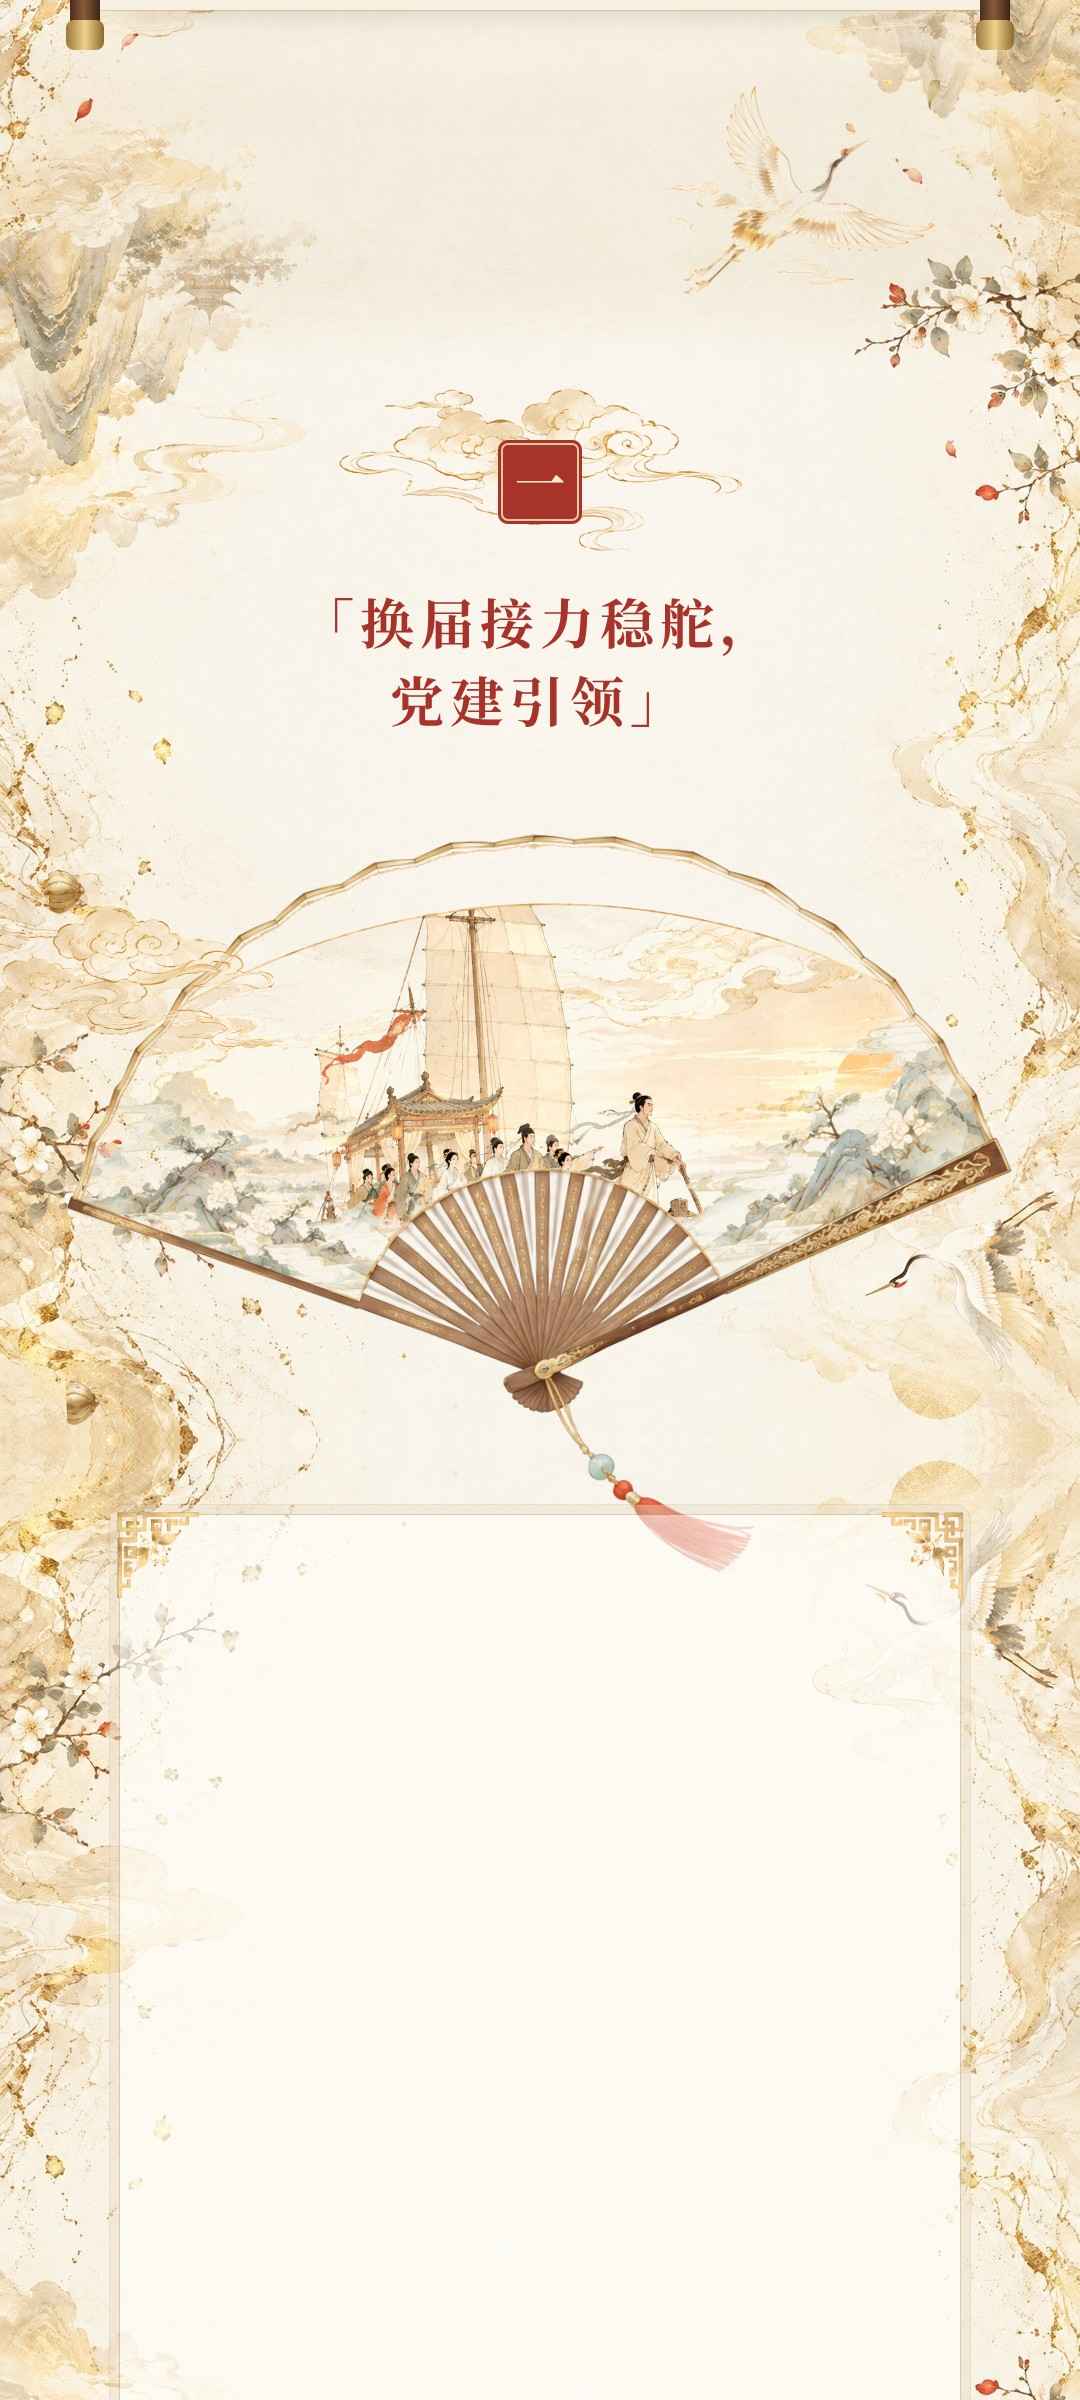
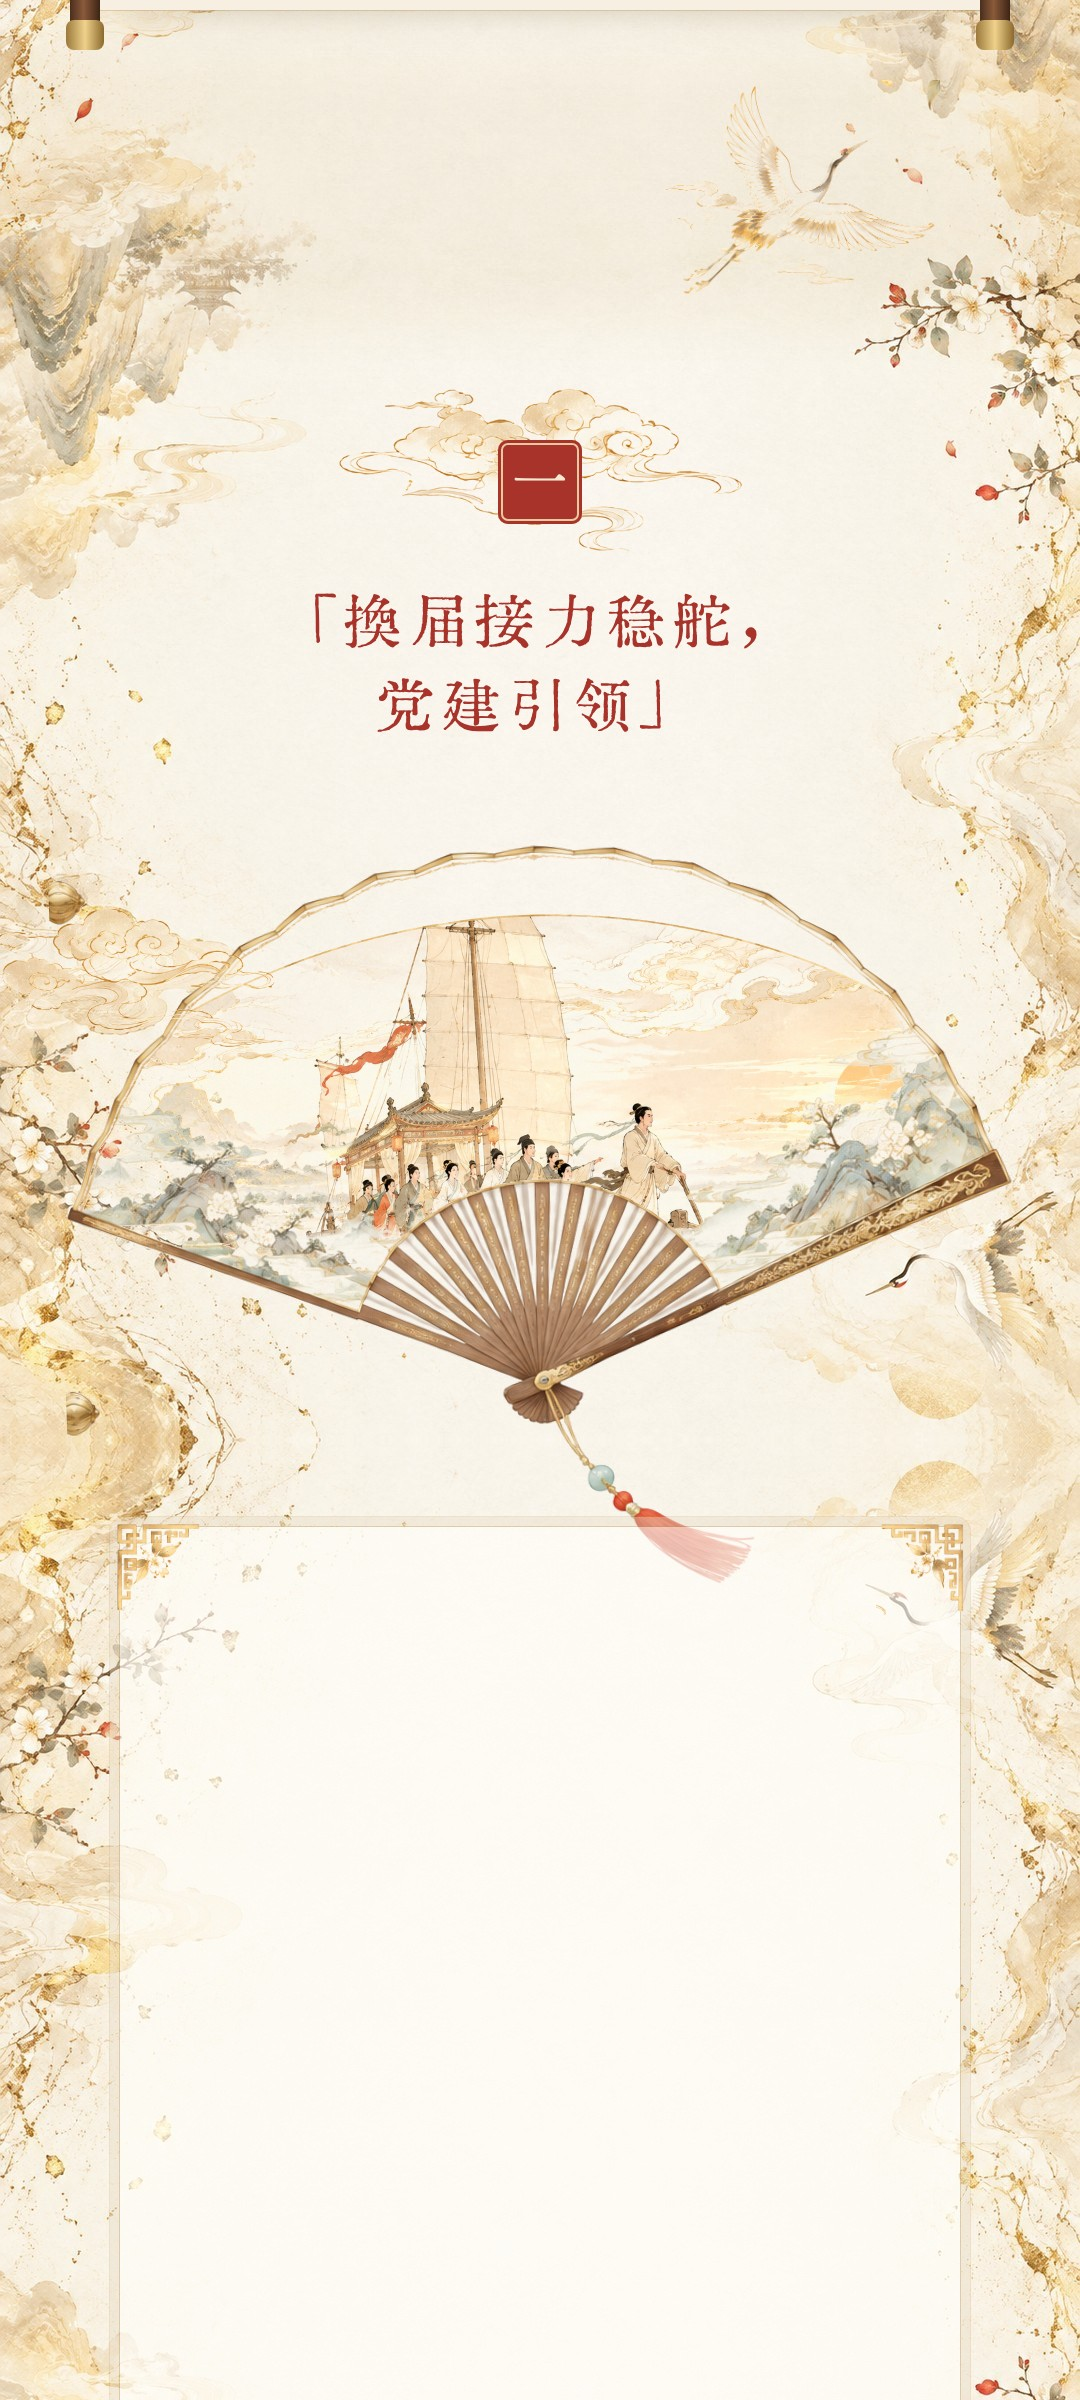
大事记长图: switch titles and chapter seals to KingHwa OldSong (user request); document font source and license
Claude-Session: https://claude.ai/code/session_01Bs7ysPCJDx67dkzq5kzFdW

diff --git a/projects/2026-11-大事记长图/layout/long_v6.html b/projects/2026-11-大事记长图/layout/long_v6.html
@@ -1,5 +1,6 @@
 <!doctype html><html lang="zh-CN"><head><meta charset="utf-8"><title>2026 大事记长图 v6</title><style>
 @font-face { font-family:"NotoSerifSC"; src:url("fonts/NotoSerifSC.ttf"); font-weight:200 900; }
+@font-face { font-family:"KingHwa"; src:url("fonts/KingHwa_OldSong.ttf"); }
 :root { --gold:#B8955A; --ink:#4A3B2E; --ink2:#8A7660; --red:#A8332B; }
 * { box-sizing:border-box; margin:0; padding:0; }
 body { width:1080px; position:relative; overflow-x:hidden; font-family:"NotoSerifSC",serif; color:var(--ink);
@@ -17,8 +18,8 @@ section { position:relative; }
 .badge { position:relative; height:180px; }
 .badge .cloud { position:absolute; left:50%; top:0; width:420px; transform:translateX(-50%); }
 .badge .seal { position:absolute; left:50%; top:60px; transform:translateX(-50%); width:84px; height:84px; line-height:80px; text-align:center;
-  background:var(--red); color:#F8E9D2; font-size:50px; font-weight:800; border-radius:10px; box-shadow:inset 0 0 0 3px var(--red), inset 0 0 0 5px #EBC9A0; }
-.ttl { margin-top:22px; color:var(--red); font-weight:700; font-size:54px; line-height:1.45; letter-spacing:6px; }
+  background:var(--red); color:#F8E9D2; font-family:"KingHwa",serif; font-size:56px; font-weight:normal; border-radius:10px; box-shadow:inset 0 0 0 3px var(--red), inset 0 0 0 5px #EBC9A0; }
+.ttl { margin-top:22px; color:var(--red); font-family:"KingHwa","NotoSerifSC",serif; font-weight:normal; font-size:60px; line-height:1.4; letter-spacing:6px; }
 .slot { height:64px; margin-top:14px; }
 /* 窗、扇、门：场景在下、框在上 */
 .win { position:relative; margin:0 auto; }
@@ -165,8 +166,8 @@ body.guide .head.left .slot { margin-left:0; }
       <img class="frame" src="img/v6/f2_2.png"></div></div>
     <div style="flex:1; text-align:center;">
       <div class="badge" style="width:420px; margin:0 auto;"><img class="cloud" src="img/v5/orn_10.png" style="width:360px;"><div class="seal">七</div></div>
-      <div class="ttl" style="font-size:44px; letter-spacing:4px;">「三十二载融金城</div>
-      <div class="ttl" style="font-size:30px; letter-spacing:1px; margin-top:6px; white-space:nowrap;">MINSON LAND甘青宁首店开业」</div>
+      <div class="ttl" style="font-size:48px; letter-spacing:4px;">「三十二载融金城</div>
+      <div class="ttl" style="font-size:32px; letter-spacing:1px; margin-top:6px; white-space:nowrap;">MINSON LAND甘青宁首店开业」</div>
       <div class="slot" style="position:relative;" data-label="篇名 · 日期"></div>
     </div>
   </div>

diff --git a/projects/2026-11-大事记长图/layout/long_v6_guide.html b/projects/2026-11-大事记长图/layout/long_v6_guide.html
@@ -1,5 +1,6 @@
 <!doctype html><html lang="zh-CN"><head><meta charset="utf-8"><title>2026 大事记长图 v6</title><style>
 @font-face { font-family:"NotoSerifSC"; src:url("fonts/NotoSerifSC.ttf"); font-weight:200 900; }
+@font-face { font-family:"KingHwa"; src:url("fonts/KingHwa_OldSong.ttf"); }
 :root { --gold:#B8955A; --ink:#4A3B2E; --ink2:#8A7660; --red:#A8332B; }
 * { box-sizing:border-box; margin:0; padding:0; }
 body { width:1080px; position:relative; overflow-x:hidden; font-family:"NotoSerifSC",serif; color:var(--ink);
@@ -17,8 +18,8 @@ section { position:relative; }
 .badge { position:relative; height:180px; }
 .badge .cloud { position:absolute; left:50%; top:0; width:420px; transform:translateX(-50%); }
 .badge .seal { position:absolute; left:50%; top:60px; transform:translateX(-50%); width:84px; height:84px; line-height:80px; text-align:center;
-  background:var(--red); color:#F8E9D2; font-size:50px; font-weight:800; border-radius:10px; box-shadow:inset 0 0 0 3px var(--red), inset 0 0 0 5px #EBC9A0; }
-.ttl { margin-top:22px; color:var(--red); font-weight:700; font-size:54px; line-height:1.45; letter-spacing:6px; }
+  background:var(--red); color:#F8E9D2; font-family:"KingHwa",serif; font-size:56px; font-weight:normal; border-radius:10px; box-shadow:inset 0 0 0 3px var(--red), inset 0 0 0 5px #EBC9A0; }
+.ttl { margin-top:22px; color:var(--red); font-family:"KingHwa","NotoSerifSC",serif; font-weight:normal; font-size:60px; line-height:1.4; letter-spacing:6px; }
 .slot { height:64px; margin-top:14px; }
 /* 窗、扇、门：场景在下、框在上 */
 .win { position:relative; margin:0 auto; }
@@ -165,8 +166,8 @@ body.guide .head.left .slot { margin-left:0; }
       <img class="frame" src="img/v6/f2_2.png"></div></div>
     <div style="flex:1; text-align:center;">
       <div class="badge" style="width:420px; margin:0 auto;"><img class="cloud" src="img/v5/orn_10.png" style="width:360px;"><div class="seal">七</div></div>
-      <div class="ttl" style="font-size:44px; letter-spacing:4px;">「三十二载融金城</div>
-      <div class="ttl" style="font-size:30px; letter-spacing:1px; margin-top:6px; white-space:nowrap;">MINSON LAND甘青宁首店开业」</div>
+      <div class="ttl" style="font-size:48px; letter-spacing:4px;">「三十二载融金城</div>
+      <div class="ttl" style="font-size:32px; letter-spacing:1px; margin-top:6px; white-space:nowrap;">MINSON LAND甘青宁首店开业」</div>
       <div class="slot" style="position:relative;" data-label="篇名 · 日期"></div>
     </div>
   </div>

diff --git a/projects/2026-11-大事记长图/layout/build_v6.py b/projects/2026-11-大事记长图/layout/build_v6.py
@@ -29,6 +29,7 @@ def L(src, style, cls=''):
 
 CSS = '''
 @font-face { font-family:"NotoSerifSC"; src:url("fonts/NotoSerifSC.ttf"); font-weight:200 900; }
+@font-face { font-family:"KingHwa"; src:url("fonts/KingHwa_OldSong.ttf"); }
 :root { --gold:#B8955A; --ink:#4A3B2E; --ink2:#8A7660; --red:#A8332B; }
 * { box-sizing:border-box; margin:0; padding:0; }
 body { width:1080px; position:relative; overflow-x:hidden; font-family:"NotoSerifSC",serif; color:var(--ink);
@@ -46,8 +47,8 @@ section { position:relative; }
 .badge { position:relative; height:180px; }
 .badge .cloud { position:absolute; left:50%; top:0; width:420px; transform:translateX(-50%); }
 .badge .seal { position:absolute; left:50%; top:60px; transform:translateX(-50%); width:84px; height:84px; line-height:80px; text-align:center;
-  background:var(--red); color:#F8E9D2; font-size:50px; font-weight:800; border-radius:10px; box-shadow:inset 0 0 0 3px var(--red), inset 0 0 0 5px #EBC9A0; }
-.ttl { margin-top:22px; color:var(--red); font-weight:700; font-size:54px; line-height:1.45; letter-spacing:6px; }
+  background:var(--red); color:#F8E9D2; font-family:"KingHwa",serif; font-size:56px; font-weight:normal; border-radius:10px; box-shadow:inset 0 0 0 3px var(--red), inset 0 0 0 5px #EBC9A0; }
+.ttl { margin-top:22px; color:var(--red); font-family:"KingHwa","NotoSerifSC",serif; font-weight:normal; font-size:60px; line-height:1.4; letter-spacing:6px; }
 .slot { height:64px; margin-top:14px; }
 /* 窗、扇、门：场景在下、框在上 */
 .win { position:relative; margin:0 auto; }
@@ -175,8 +176,8 @@ parts.append(f'''
     <div style="width:520px; flex:none;">{win("f2_2", "s7_jincheng.jpg", 520)}</div>
     <div style="flex:1; text-align:center;">
       <div class="badge" style="width:420px; margin:0 auto;"><img class="cloud" src="img/v5/orn_10.png" style="width:360px;"><div class="seal">七</div></div>
-      <div class="ttl" style="font-size:44px; letter-spacing:4px;">「三十二载融金城</div>
-      <div class="ttl" style="font-size:30px; letter-spacing:1px; margin-top:6px; white-space:nowrap;">MINSON LAND甘青宁首店开业」</div>
+      <div class="ttl" style="font-size:48px; letter-spacing:4px;">「三十二载融金城</div>
+      <div class="ttl" style="font-size:32px; letter-spacing:1px; margin-top:6px; white-space:nowrap;">MINSON LAND甘青宁首店开业」</div>
       <div class="slot" style="position:relative;" data-label="篇名 · 日期"></div>
     </div>
   </div>

diff --git a/projects/2026-11-大事记长图/layout/README.md b/projects/2026-11-大事记长图/layout/README.md
@@ -2,7 +2,8 @@
 
 - 画面：Lovart 画布 `2qzd6zw00fsw` 生成（不带文字），放 `img/`。
 - 文字：全部在 HTML 里排，逐字取自 `../content_2026_raw.md`（用户 docx）。
-- 字体（OFL 开源，可商用）：马善政（书法标题）、志莽行、刘建毛草、龙藏、思源宋体（Noto Serif SC）。不进 git，下载到某目录后建软链 `fonts/`：
+- **标题和章号用京華老宋体（KingHwa_OldSong）**，用户 2026-11-05 指定。作者特里王（TerryWang），声明免费商用；不可单独售卖字体文件、不可修改字形；字形不合现行规范，作者建议不用于教育等正式用字场合。文件 32MB 不进 git：从 fonthubs 直链下载（1.007 版，2023-07-28；作者原帖只给网盘）：`curl -L -o fonts/KingHwa_OldSong.ttf https://bucket.fonthubs.com/0d31888c-5dfc-431d-aaf7-3487e411146c.ttf`，下载后用 fontTools 核对 name 表是 KingHwa_OldSong。
+- 其他字体（OFL 开源，可商用）：马善政（书法标题）、志莽行、刘建毛草、龙藏、思源宋体（Noto Serif SC）。不进 git，下载到某目录后建软链 `fonts/`：
   ```bash
   mkdir -p FONTS && cd FONTS
   for f in mashanzheng/MaShanZheng-Regular.ttf zhimangxing/ZhiMangXing-Regular.ttf liujianmaocao/LiuJianMaoCao-Regular.ttf longcang/LongCang-Regular.ttf "notoserifsc/NotoSerifSC%5Bwght%5D.ttf"; do curl -sSfLO "https://raw.githubusercontent.com/google/fonts/main/ofl/$f"; done

diff --git a/projects/2026-11-大事记长图/layout/CREDITS.md b/projects/2026-11-大事记长图/layout/CREDITS.md
@@ -7,4 +7,5 @@
 | （已下载未用）瑞鹤图（亮版） | 宋徽宗《瑞鹤图》，Wikimedia Commons | Public domain |
 | （已下载未用）Bird on a Flowering Branch | 南宋佚名，克利夫兰美术馆，经 Wikimedia Commons | CC0 |
 | 其余插画、底纹、装饰元素 | Lovart（GPT Image 2.5）为本项目生成，ID 见 README.md | 本项目自有生成内容 |
-| 字体 | 思源宋体 Noto Serif SC、马善政等（Google Fonts） | SIL OFL 1.1 |
+| 字体（标题、章号） | 京華老宋体 KingHwa_OldSong 1.007，作者特里王 TerryWang | 作者声明免费商用；不可单独出售字体文件、不可修改字形 |
+| 字体（其他） | 思源宋体 Noto Serif SC、马善政等（Google Fonts） | SIL OFL 1.1 |
